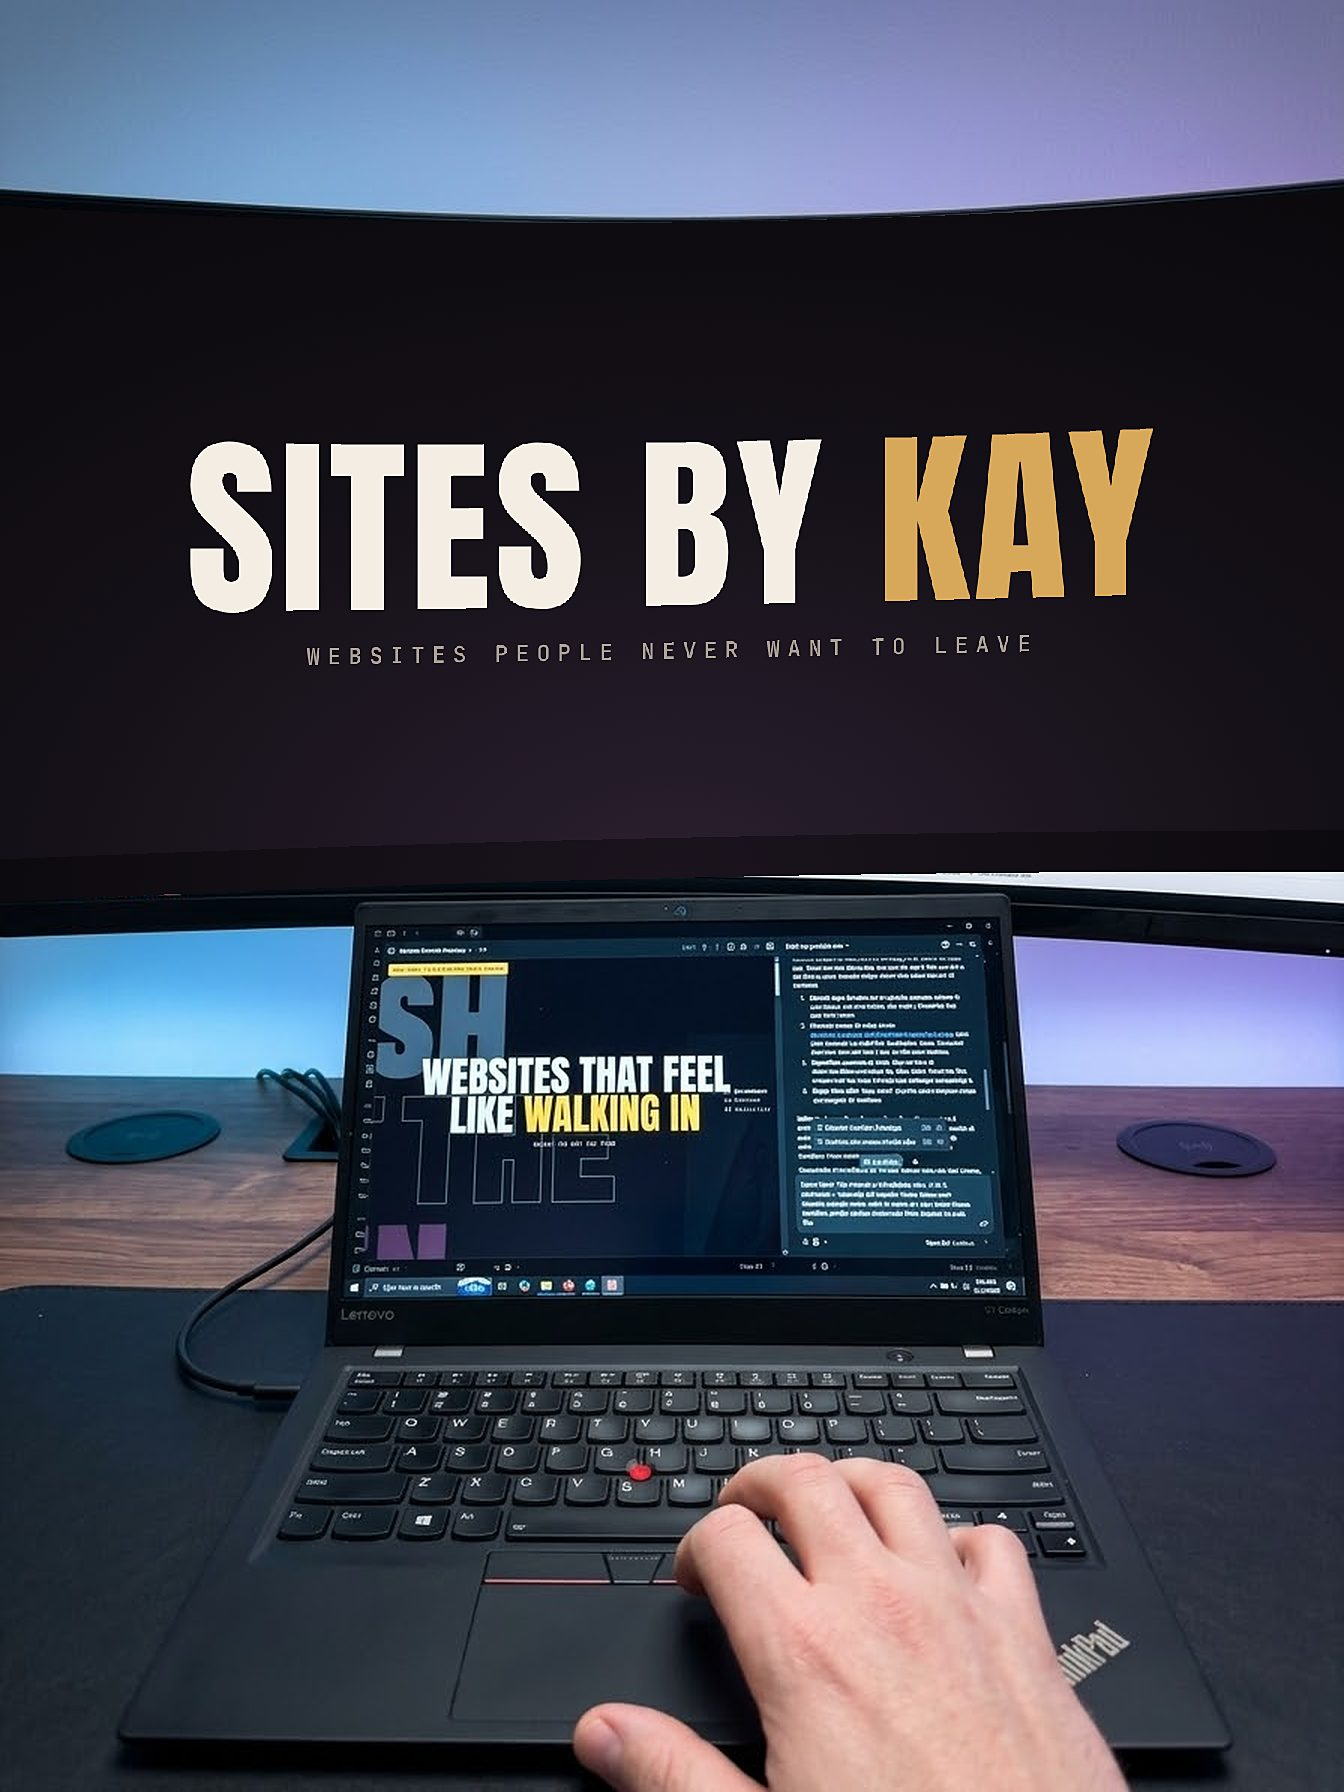
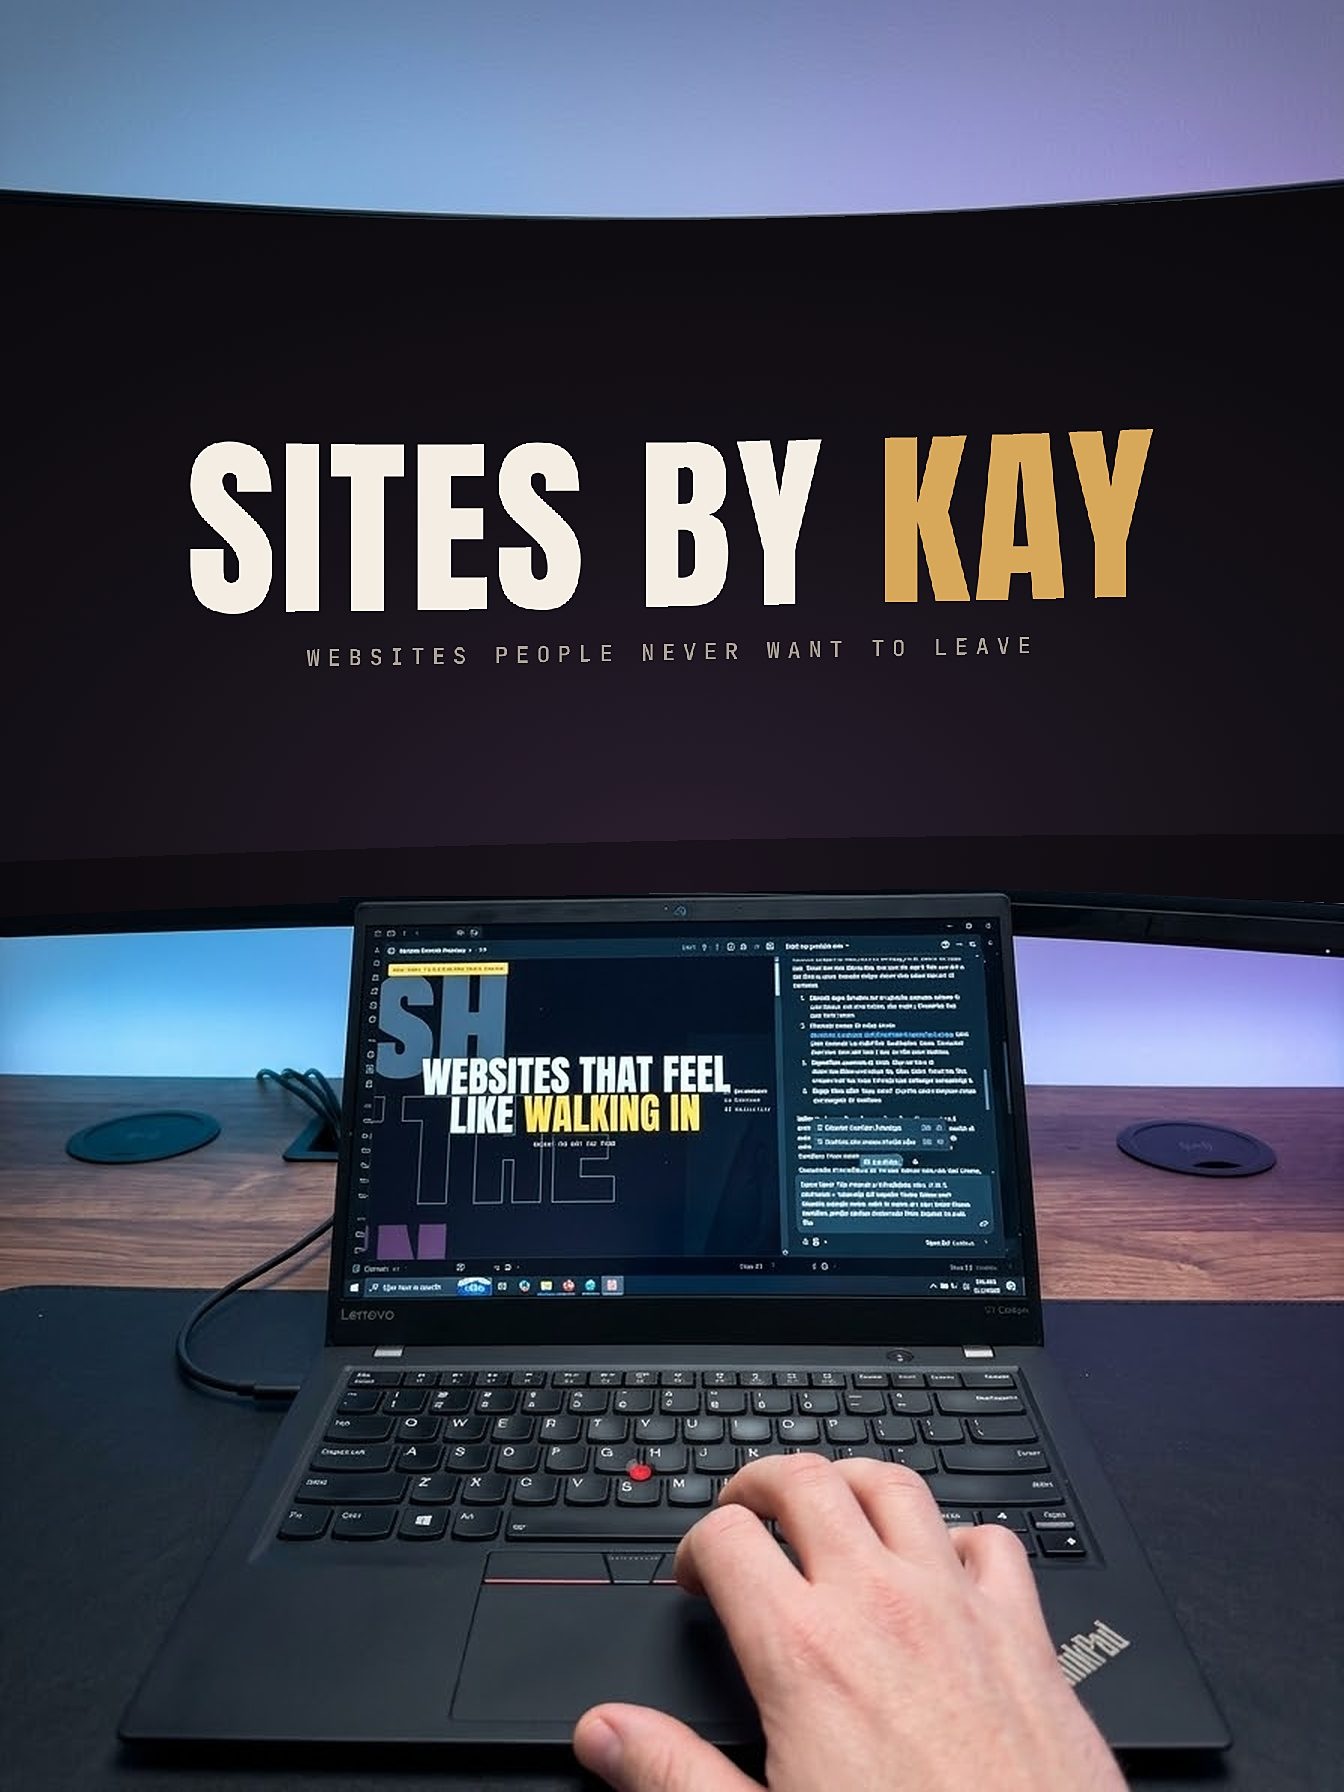
Fix monitor edge, laptop screen fit and Chocolate Factory screenshots
- Screensaver overlay now covers the monitor's bottom-right corner
- Laptop screen corners re-measured so no desktop taskbar or corners show
- Chocolate Factory screenshots now include every walk-in story photo

Claude-Session: https://claude.ai/code/session_017DyAJKNavezrjqra3A8GzZ

Changed region(s): [[0.625, 0.4688, 1.0, 0.5312]]

diff --git a/index.html b/index.html
@@ -177,7 +177,7 @@ footer{text-align:center;color:var(--dim);font:500 11px/1 var(--mono);letter-spa
   const screen=document.getElementById('screen'), rig=document.getElementById('rig');
   let tl;
 
-  const QUAD=[[241,616],[669,611],[674,866],[234,866]];
+  const QUAD=[[233,599],[675,596],[684,868],[227,868]];
   const FOCUS={x:130,y:585,w:660,h:500};
   function place(){
     if(phoneMQ.matches){rig.style.width='';rig.style.left='';rig.style.top='';return;}
